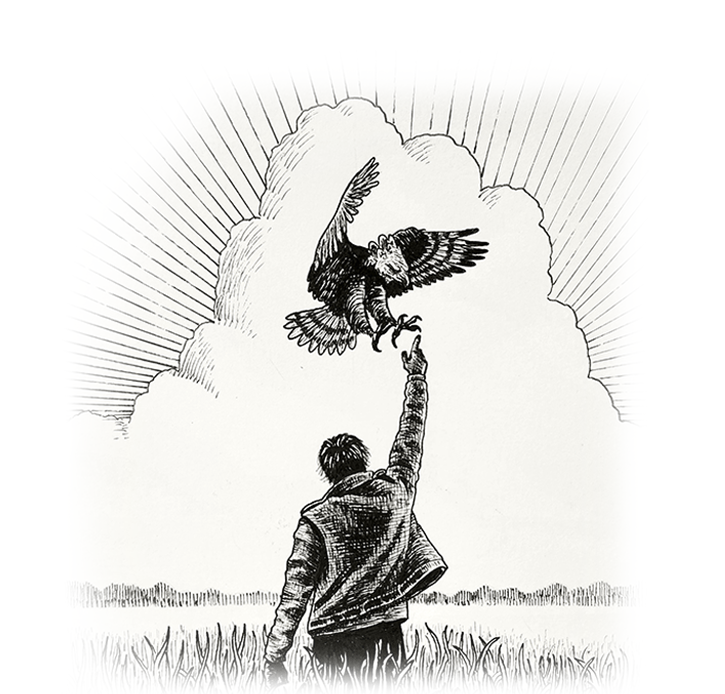
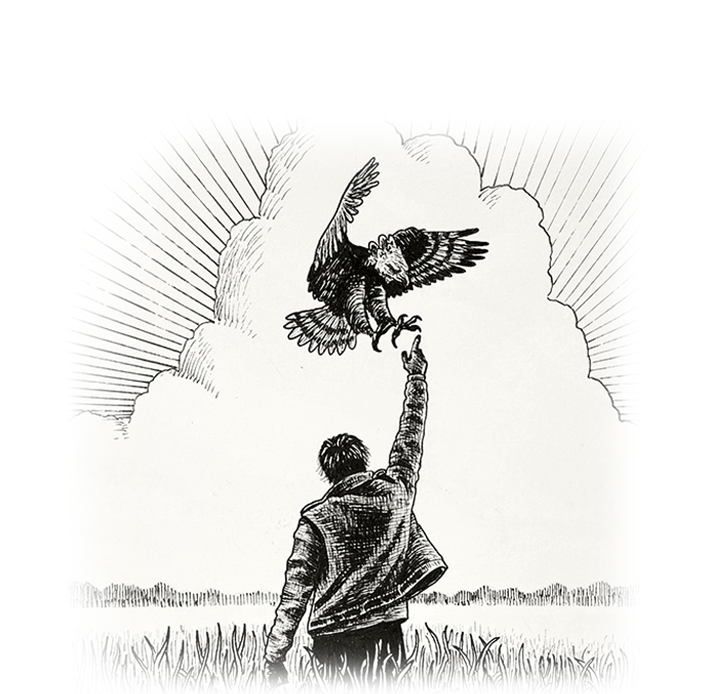
refactor: improve headercomponent

Changed region(s): [[0.3034, 0.121, 0.8193, 0.2421], [0.4855, 0.2118, 0.5159, 0.2421]]

diff --git a/src/components/header/HeaderComponent.jsx b/src/components/header/HeaderComponent.jsx
@@ -1,76 +1,144 @@
 import styled from "styled-components";
-import bgImage from "../../assets/paper-texture-header.png"
+import { NavLink } from "react-router-dom";
+import bgImage from "../../assets/paper-texture-header.png";
 import HamburguerMenuComponent from "../menu/HamburguerMenuComponent";
 
 export default function HeaderComponent() {
-  return (
-    <HeaderStyled>
-      <a href="/" >ARTHUR WORKS</a>
+    return (
+        <HeaderStyled>
+            <HeaderContentStyled>
 
-      <NavStyled>
-        <a href="/gallery">GALLERY</a>
-        <a href="/about">ABOUT</a>
-        <a href="/contact">CONTACT</a>
-      </NavStyled>
+                <LogoStyled to="/">
+                    Arthur Works
+                </LogoStyled>
 
-      <HamburguerMenuComponent/>
-    </HeaderStyled>
-  );
+                <NavStyled aria-label="Main navigation">
+                    <NavLink to="/gallery">Gallery</NavLink>
+                    <NavLink to="/about">About</NavLink>
+                    <NavLink to="/contact">Contact</NavLink>
+                </NavStyled>
+
+                <HamburguerMenuComponent />
+
+            </HeaderContentStyled>
+        </HeaderStyled>
+    );
 }
 
 const HeaderStyled = styled.header`
-  //background-color: #f1f1f1;   
-  background-color: transparent;
-  user-select: none;
-  
-  font-family: "Datatype", monospace;
-  font-optical-sizing: auto;
-  font-weight: 400;  
-  font-size: 19px;
- 
-  height: 60px;
-  padding: 0 40px;
-  position: fixed;
-  top: 0;
-  left: 0;
-  right: 0;
-  z-index: 1;
+    position: fixed;
+    text-transform: uppercase;
+    font-family: "Datatype", monospace;
+    inset: 0 0 auto 0;
 
-  display: flex;
-  justify-content: space-between; 
-  align-items: center;
-  color: #2f2f2f;
-  background-image: url(${bgImage});
-  //border-bottom:1px solid rgba(0,0,0,.05);
-  backdrop-filter: blur(10px);
+    height: 72px;
 
-  -webkit-backdrop-filter: blur(10px);
+    z-index: 1000;
 
-  @media (max-width: 600px) {
-    //background-color: red;
-  }
-`
+    user-select: none;
+
+    background-image: url(${bgImage});
+    background-repeat: repeat;
+
+    backdrop-filter: blur(12px);
+    -webkit-backdrop-filter: blur(12px);
+
+    //border-bottom: 1px solid rgba(0,0,0,.06);
+`;
+
+const HeaderContentStyled = styled.div`
+    width: min(1400px, calc(100% - 80px));
+
+    height: 100%;
+
+    margin: 0 auto;
+
+    display: flex;
+    justify-content: space-between;
+    align-items: center;
+
+    @media (max-width:600px){
+        width: calc(100% - 40px);
+    }
+`;
+
+const LogoStyled = styled(NavLink)`
+    font-size: 1.15rem;
+    font-weight: 500;
+
+    color:#2F2F2F;
+
+    letter-spacing:.05em;
+
+    transition: color .25s ease;
+
+    &:hover{
+        color:#5C5C5C;
+    }
+
+    &:active{
+        color:#8A8A8A;
+    }
+`;
 
 const NavStyled = styled.nav`
-  display: flex;
-  gap: 20px;
+    display:flex;
+    align-items:center;
+    gap:36px;
 
-  @media (max-width: 600px) {
-    display: none;
-  }
+    @media(max-width:600px){
+        display:none;
+    }
 
-  a{
-    border: 2px solid transparent;
-    transition: .25s;
-  }
-  
+    a{
 
-  a:hover{
-    color: #818181;
-    border-bottom: 2px solid #818181;
-  }
-  a:active {
-    color:  #b3b3b3;  
-    border-bottom: 2px solid #b3b3b3;;
-  }
-`
+        position:relative;
+
+        font-size:.95rem;
+        letter-spacing:.08em;
+
+        color:#2F2F2F;
+
+        transition:color .25s ease;
+
+    }
+
+    a::after{
+
+        content:"";
+
+        position:absolute;
+
+        left:0;
+        bottom:-5px;
+
+        width:100%;
+        height:1.5px;
+
+        background:#2F2F2F;
+
+        transform:scaleX(0);
+        transform-origin:left;
+
+        transition:transform .25s ease;
+
+    }
+
+    /* Link ativo */
+    a[aria-current="page"]::after{
+        transform:scaleX(1);
+    }
+
+    /* Só aplica hover aos links que NÃO estão ativos */
+    a:not([aria-current="page"]):hover{
+        color:#5C5C5C;
+    }
+
+    a:not([aria-current="page"]):hover::after{
+        transform:scaleX(1);
+    }
+
+    a:active{
+        color:#8A8A8A;
+    }
+`;

diff --git a/src/Pages/HomePage.jsx b/src/Pages/HomePage.jsx
@@ -1,5 +1,5 @@
 import Styled from "styled-components";
-import image1Large from "../assets/drawings/1large.png";
+import image1Large from "../assets/drawings/1large2.png";
 import image1Medium from "../assets/drawings/1medium.png";
 import image1Small from "../assets/drawings/1small.png";
 
@@ -157,7 +157,7 @@ const ImgContainerStyled = Styled.div`
         object-position: 78% center;
 
         transform: scale(1.34);
-        transform-origin: right center;
+        transform-origin: right 220px;
 
         display: block;
     }
